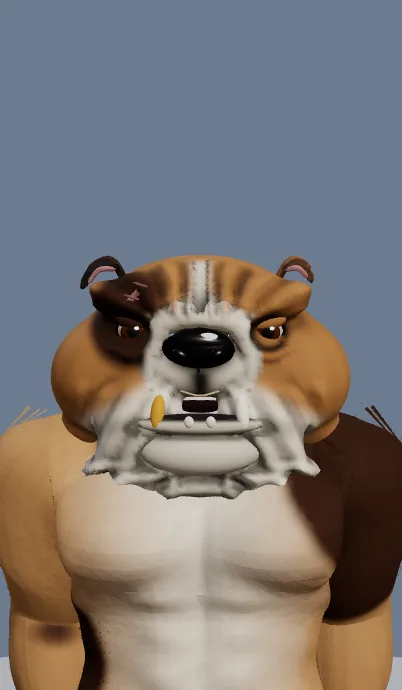
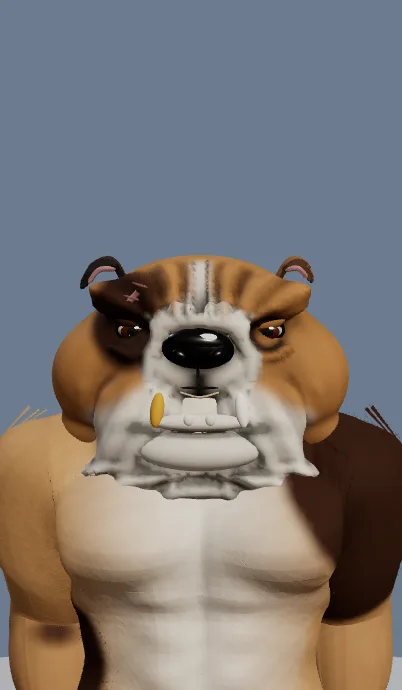
GOTR-0082: Brick v3 head final round (lower face, cheeks), v3 sheets (heads vs lion, gym, fight, motion); GOTR-0083: gym fight hides the club stands, Bruno walks in to count, the story waits for the raised arm; oldtown goal strip fix
Claude-Session: https://claude.ai/code/session_012XYxhJ7jTb1Ye5xdCZM7vq

diff --git a/adventure/story/story-cast.js b/adventure/story/story-cast.js
@@ -412,7 +412,7 @@
     const x = Math.abs(px);
     let d = E(x, y, z, 0, .185, -.03, .215, .12, .2);                   // wide flat skull
     d = SM(d, E(x, y, z, 0, .03, -.09, .24, .17, .17), .06);            // back of the head into the neck
-    d = SM(d, E(x, y, z, .18, .04, .03, .15, .14, .16), .05);           // cheeks and jowls: the biggest mass
+    d = SM(d, E(x, y, z, .18, .04, .005, .15, .14, .155), .05);         // cheeks and jowls: the biggest mass
     d = SM(d, E(x, y, z, 0, .086, .15, .17, .08, .085), .035);          // very short muzzle, almost as wide as the skull
     d = SM(d, E(x, y, z, .07, .2, .168, .065, .036, .05), .022);        // heavy brow: low at the inside (a permanent frown) ...
     d = SM(d, E(x, y, z, .155, .222, .12, .075, .042, .056), .028);     // ... higher at the outside
@@ -433,7 +433,7 @@
       const wf = smooth((y - .19) / .03) * smooth(z / .08) * (1 - smooth((y - .3) / .025)) * smooth((x - .012) / .012);
       if (wf > 0) { const a = Math.atan2(x, y - .1); k += wf * .01 * fold(a * 3.4 + .3 * Math.sin(y * 28 + x * 9)); }
       const wl = smooth((.06 - y) / .04) * smooth((z - .1) / .06) * smooth((x - .035) / .03) * (1 - smooth((x - .24) / .04));
-      if (wl > 0) k += wl * .01 * fold((x * .9 + y * .45) / .055);
+      if (wl > 0) k += wl * .007 * fold((x * .9 + y * .45) / .055);
       const wd = smooth((-.1 - y) / .04) * smooth((z + .02) / .06);
       if (wd > 0) k += wd * .011 * fold((y + 1.2 * x * x) / .05);
       return k;
@@ -446,10 +446,9 @@
       d -= skin(x, y, z);
       d = SS(d, E(x, y, z, 0, .25, .21, .014, .065, .06), .012);        // the furrow down the forehead
       d = SS(d, E(x, y, z, .145, .155, .215, .044, .037, .05), .012);   // deep eye sockets under the brow
-      d = SS(d, E(x, y, z, 0, .04, .26, .02, .035, .04), .01);          // the cleft under the nose between the flews
       return d;
     };
-    const jaw = (px, y, z) => { const x = Math.abs(px); let d = E(x, y, z, 0, -.08, .125, .17, .056, .14); d = SM(d, E(x, y, z, 0, -.1, .255, .115, .042, .048), .03); return SM(d, E(x, y, z, 0, -.034, .265, .13, .022, .03), .011); }; // undershot: a broad square chin and the lower lip jut out past the nose
+    const jaw = (px, y, z) => { const x = Math.abs(px); let d = E(x, y, z, 0, -.08, .125, .17, .056, .14); d = SM(d, E(x, y, z, 0, -.098, .252, .115, .036, .046), .03); return SM(d, E(x, y, z, 0, -.032, .265, .105, .018, .028), .011); }; // undershot: a broad square chin and the lower lip jut out past the nose
     return (mugFields = { base: mugBase, upper, jaw, rope, all: (x, y, z) => Math.min(upper(x, y, z), jaw(x, y, z)) });
   }
   /** Skin weights for the face dynamics: x = jowls, flews, dewlap (swing), y = brow (frown / lift), z = cheeks (ripple on impact). */
@@ -484,7 +483,7 @@
         for (const [sx, sy] of [[.06, .03], [.09, .012], [.1, .04]]) c.lerp(mask, .6 * smooth((.007 - Math.hypot(x - sx, y - sy)) / .003) * front); // whisker spots
       };
       const up = flexWeights(tint(surface(F.upper, [-.37, -.29, -.36], [.37, .37, .34], .0125), F.all, coat, .024, .38));
-      const jw = flexWeights(tint(surface(F.jaw, [-.18, -.16, -.03], [.18, .0, .32], .011), F.all, (px, y, z, nx, ny, nz, c) => { const x = Math.abs(px); c.copy(white).lerp(lip, clamp(smooth((y + .03) / .01) * smooth((z - .22) / .03))).lerp(pink, smooth((ny - .55) / .2) * (1 - smooth((z - .22) / .03))).lerp(mouth, .6 * smooth((ny - .7) / .2) * (1 - smooth((z - .2) / .05))).lerp(mask, .45 * smooth((-.12 - y) / .03) * smooth((z - .15) / .05) * bell(x, 0, .12)); }, .018, .5), true);
+      const jw = flexWeights(tint(surface(F.jaw, [-.18, -.16, -.03], [.18, .0, .32], .011), F.all, (px, y, z, nx, ny, nz, c) => { const x = Math.abs(px); c.copy(white).lerp(lip, clamp(.85 * smooth((y + .016) / .006) * smooth((z - .24) / .02))).lerp(pink, smooth((ny - .55) / .2) * (1 - smooth((z - .22) / .03))).lerp(mouth, .6 * smooth((ny - .7) / .2) * (1 - smooth((z - .2) / .05))).lerp(mask, .45 * smooth((-.12 - y) / .03) * smooth((z - .15) / .05) * bell(x, 0, .12)); }, .018, .72), true);
       for (const k of [up, jw]) crease(k, F.all, .007, 75, .55);
       mugGeo = { up, jw };
     }
@@ -495,13 +494,13 @@
     const mug = new THREE.Group(); mug.name = 'Brick: bulldog head'; mug.userData.mane = true; mug.scale.setScalar(S9); mug.position.set(0, -.032, .014); // sits low and forward
     const skull = new THREE.Mesh(mugGeo.up, mat); skull.name = 'Brick: skull, muzzle, flews'; skull.castShadow = true; mug.add(skull);
     // the jaw swings on a hinge behind the cheeks
-    const hinge = new THREE.Group(); hinge.position.set(0, .004, .0); hinge.rotation.x = .02; mug.add(hinge);
+    const hinge = new THREE.Group(); hinge.position.set(0, .004, .0); mug.add(hinge);
     const jaw = new THREE.Mesh(mugGeo.jw, mat); jaw.position.set(0, .01, 0); jaw.name = 'Brick: jaw'; jaw.castShadow = true; hinge.add(jaw);
     const T = new Parts(), J = p => p.clone().add(V(0, .01, 0));
     for (const sd of [-1, 1]) { T.sph(J(V(sd * .086, -.006, .27)), V(.014, .036, .014), sd > 0 ? '#e0a83a' : '#fbf7ee', [-.3, 0, sd * .12]); T.sph(J(V(sd * .022, -.022, .292)), V(.01, .012, .007), '#f3ecde'); } // two lower canines (one gold) and the front teeth
     T.sph(J(V(0, -.036, .17)), V(.07, .013, .085), '#c06a70'); hinge.add(T.mesh('Brick: teeth, tongue'));
     const P = new Parts();
-    P.sph(V(0, .0, .12), V(.13, .032, .1), '#2a1214'); // the dark of the mouth behind the lips
+    P.sph(V(0, -.004, .1), V(.12, .024, .09), '#2a1214'); // the dark of the mouth behind the lips
     // small rose ears high on the corners of the skull, folded back and a little down, with a darker edge; the left one is torn
     for (const sd of [-1, 1]) { const ec = sd > 0 ? BRICK.patch : '#a87447', len = sd > 0 ? .85 : .55, e0 = V(sd * .17, .245, -.06);
       const pts = [e0, V(sd * .2, .285, -.085), V(sd * (.212 + .04 * len), .285 - .018 * len, -.108), V(sd * (.222 + .058 * len), .282 - .062 * len, -.1)];
@@ -528,7 +527,7 @@
       mk(rig.castMats.glint, V(ex - sd * .003 - r * .26, ey + r * .22, ez + r * .7), V(r * .17, r * .15, r * .05)); mk(rig.castMats.glint, V(ex - sd * .003 + r * .2, ey - r * .26, ez + r * .66), V(r * .07, r * .06, r * .03));
       const ul = new THREE.Mesh(proto('sph'), lid); ul.position.set(ex, ey + r * .58, ez + r * .06); ul.scale.set(r * 1.18, r * .52, r * .68); ul.rotation.z = sd * .3; ul.name = 'Brick: upper lid'; mug.add(ul); lids.push({ m: ul, y: ul.position.y }); // heavy upper lid (in the head group, so face acting leaves it alone)
     }
-    rig.castTalk = { hinge, rest: .02, amount: 0 };
+    rig.castTalk = { hinge, rest: 0, amount: 0 };
     rig.castFace = { U, mug, lids, spring: null, time: null, brow: -.4 };
   }
   /** Face dynamics, every rig update (cheap): jowls on a spring, brow frown / lift, impact ripple, jaw on effort. */

diff --git a/qa/gotr-0078/slice1/tools/gymfight.js b/qa/gotr-0078/slice1/tools/gymfight.js
@@ -1,0 +1,32 @@
+// GOTR-0083: the first fight vs Brick through the game's own flow (fresh profile, AdventureOldTown.launch 'first_brick'),
+// on the gym floor with Bruno as referee. Shots: guard, Brick punching, a knockdown with Bruno counting, the result.
+// Env: TAG (file prefix), SPEED (game speed while waiting, default 6). The intro is skipped with the game's own skip.
+module.exports = async (p, shot, u) => {
+  const tag = process.env.TAG || 'gym', speed = +(process.env.SPEED || 6), wait = (f, a, t = 280000) => p.waitForFunction(f, a, { timeout: t });
+  await p.evaluate(() => { localStorage.clear(); localStorage.setItem('gotr.adv.nointro', '1'); document.querySelectorAll('dialog[open]').forEach(d => d.close()); app.engine.career.store.create('QA Gym'); });
+  await p.reload({ timeout: 300000 }); await wait(() => window.ringfighterGame && app.engine.coach?.anatomy && window.AdventureOldTown && window.StoryCast && window.StoryGymFight);
+  await p.evaluate(() => { setInterval(() => document.querySelectorAll('dialog[open]:not(.dream-scene):not(.story-scene)').forEach(d => d.close()), 400); const rg = window.ringfighterGame; window.__ctx = { store: rg.store, startTraining: rg.startTraining, startFight: rg.startFight, change: a => { const r = rg.store.gameAction(a); if (r.ok) rg.apply?.(); return r.ok; } }; });
+  const frames = async n => { const n0 = await p.evaluate(() => app.engine.renderer.info.render.frame); await wait(a => app.engine.renderer.info.render.frame >= a[0] + a[1], [n0, n]); };
+  const info = () => p.evaluate(() => { const v = app.engine.arena.fightView, m = v?.match, b = v?.coaches?.lion, k = v?.coaches?.rabbit; const xz = c => c ? [+c.root.position.x.toFixed(2), +c.root.position.z.toFixed(2)] : null;
+    return { phase: m?.phase, time: +(m?.time || 0).toFixed(1), result: m?.result ? { winner: m.result.winner, method: m.result.method } : null, opponent: k?.character, gym: !!v?.gymFight, set: !!v?.gymFight?.set, ref: v?.referee?.isBruno ? 'bruno' : 'rhino', ring: v?.ring?.visible, crowd: v?.audience?.root?.visible, stands: app.engine.world?.arena?.visible, fighter: xz(b), brick: xz(k), bruno: v?.referee?.root ? xz({ root: v.referee.root }) : null }; });
+  await p.evaluate(() => { AdventureOldTown.launch(window.__ctx, 'first_brick'); });
+  await p.waitForTimeout(1500); await p.evaluate(() => { const b = document.querySelector('#sfBeat .sf-beat-main'); if (b) b.click(); });
+  await wait(() => app.engine.targetMode === 'fight' && app.engine.arena?.fightView?.match);
+  console.log('start', JSON.stringify(await info()));
+  await p.evaluate(s => { app.engine.cameraDirector?.skipIntro?.(); app.engine.speed = s; }, speed);
+  await wait(() => app.engine.arena.fightView.match.phase === 'round' && app.engine.arena.fightView.gymFight?.set);
+  await p.evaluate(() => { app.engine.speed = 1; }); await frames(3); console.log('guard', JSON.stringify(await info())); await shot(`${tag}-1-guard-${u.w}`);
+  await p.evaluate(s => { app.engine.speed = s; }, speed);
+  await wait(() => { const v = app.engine.arena.fightView, s = v.specs?.rabbit; return s?.attack && s.phase > .3 && s.phase < .6; }, null, 240000).catch(() => console.log('no Brick punch seen'));
+  await p.evaluate(() => { app.engine.speed = 1; }); await frames(2); console.log('punch', JSON.stringify(await info())); await shot(`${tag}-2-punch-${u.w}`);
+  // a knockdown of the Fighter: the match's own path (pendingDown -> count), Bruno counts over him
+  await p.evaluate(s => { const m = app.engine.arena.fightView.match, f = m.fighters.lion; f.stun = 30; f.pendingDown = true; app.engine.speed = s; }, speed);
+  await wait(() => app.engine.arena.fightView.match.phase === 'count'); await p.evaluate(() => { app.engine.speed = 1; });
+  await wait(() => app.engine.arena.fightView.match.phaseTime > 1.6, null, 200000).catch(() => {}); await frames(2);
+  console.log('count', JSON.stringify(await info())); await shot(`${tag}-3-count-${u.w}`);
+  // the stoppage: condition too low to go on after the count -> TKO for Brick; Bruno raises the winner's arm
+  await p.evaluate(s => { const m = app.engine.arena.fightView.match; m.fighters.lion.condition = 4; app.engine.speed = s; }, speed);
+  await p.waitForFunction(() => { const m = app.engine.arena.fightView?.match; if (m?.phase === 'ceremony') { app.engine.speed = 50; return true; } }, null, { timeout: 280000, polling: 50 }).catch(() => console.log('no ceremony'));
+  await p.waitForFunction(() => { const m = app.engine.arena.fightView?.match; if (!m || m.phaseTime > 2) { app.engine.speed = 0; return true; } }, null, { timeout: 60000, polling: 30 }).catch(() => {});
+  console.log('result', JSON.stringify(await info())); await shot(`${tag}-4-result-${u.w}`);
+};

diff --git a/adventure/story/gym-fight.js b/adventure/story/gym-fight.js
@@ -17,7 +17,7 @@
     view.gymFight = st;
     rhino.root.visible = false;
     bruno.root.parent?.remove(bruno.root); bruno.root.scale.set(1, 1, 1); bruno.root.visible = true; view.cast.add(bruno.root); Pose.reset(bruno); // scale 1 inside the mirrored cast, like the fighters
-    const hide = () => { if (view.ring) view.ring.visible = false; if (view.audience?.root) view.audience.root.visible = false; };
+    const hide = () => { if (view.ring) view.ring.visible = false; if (view.audience?.root) view.audience.root.visible = false; if (e.world?.arena) e.world.arena.visible = false; }; // the club arena's stands and seats too
     hide();
     const p = V();
     view.referee = {
@@ -28,6 +28,19 @@
         bruno.root.updateMatrixWorld(true);
         const state = { t: time, dt, dist: 0, arms: { L: 'hips', R: 'hips' }, look: null };
         if (o.lookAt) { p.copy(o.lookAt); bruno.root.worldToLocal(p); state.look = { yaw: Math.atan2(p.x, p.z), pitch: Math.atan2(p.y - 1.9, Math.hypot(p.x, p.z)) }; }
+        // a knockdown: Bruno steps in beside the fallen fighter, faces him, leans over and chops the count down once a second
+        const m = view.match, down = m?.phase === 'count' ? view.coaches?.[m.downActor] : null, root = bruno.root;
+        if (!st.home) st.home = root.position.clone();
+        if (down) {
+          const d = down.root.position, other = view.coaches[m.downActor === 'lion' ? 'rabbit' : 'lion'].root.position, away = V(d.x - other.x, 0, d.z - other.z); if (away.lengthSq() < 1e-4) away.set(1, 0, 0); away.normalize();
+          const cam = view.cast.worldToLocal(e.camera.position.clone()), side = V(-away.z, 0, away.x); if (side.dot(V(cam.x - d.x, 0, cam.z - d.z)) > 0) side.negate(); // beyond the fallen fighter as the camera sees him, so he never hides him
+          const goal = V(d.x, 0, d.z).addScaledVector(side, .95).addScaledVector(away, .25);
+          if (!st.walk) st.walk = root.position.clone(); st.walk.lerp(goal, 1 - Math.exp(-4 * dt));
+          root.position.copy(st.walk); root.rotation.y = Math.atan2(d.x - st.walk.x, d.z - st.walk.z);
+          const beat = time % 1; Pose.civil(bruno, { t: time, dt, dist: 0, arms: { L: 'hips', R: 'count' }, reach: { R: [.3, 1.6 - .24 * Math.min(1, beat * 4) * (1 - Math.min(1, Math.max(0, beat - .25) * 3)), .38] }, look: { yaw: 0, pitch: -.45 }, lean: .2 });
+          return;
+        }
+        if (st.walk) { const k = 1 - Math.exp(-3 * dt); st.walk.lerp(root.position, k); if (st.walk.distanceTo(root.position) < .02) st.walk = null; else root.position.copy(st.walk); } // back to his place
         if (grip && grip.isVector3) {
           p.copy(grip); bruno.root.worldToLocal(p);
           if (Math.hypot(p.x, p.z) < .6 && p.y > 1.5) { const beat = time % 1; state.arms = { L: 'hips', R: 'count' }; state.reach = { R: [.3, 1.62 - .22 * Math.min(1, beat * 4) * (1 - Math.min(1, Math.max(0, beat - .25) * 3)), .34] }; state.look = { yaw: 0, pitch: -.35 }; state.lean = .12; } // the count: the arm chops down once a second
@@ -49,7 +62,7 @@
     }).catch(x => console.warn('gym fight', x));
     const dispose = view.dispose;
     view.dispose = function (...args) {
-      st.gone = true; view.referee = rhino; rhino.root.visible = true;
+      st.gone = true; view.referee = rhino; rhino.root.visible = true; if (e.world?.arena) e.world.arena.visible = e.world.mode === 'fight';
       bruno.root.parent?.remove(bruno.root); bruno.root.scale.set(-1, 1, 1); Pose.reset(bruno);
       for (const o of st.hidden) o.visible = true;
       try { st.set?.dispose(); } catch (x) { console.warn('gym fight', x); }

diff --git a/adventure/oldtown.js b/adventure/oldtown.js
@@ -117,7 +117,7 @@
     root.append(txt, bar, quit); (window.app?.engine?.stage||document.body).append(root); r.ui = { root, txt, fillBar };
   }
   function paintStrip() {
-    const r = run; if (!r?.ui) return;
+    const r = run; if (!r?.ui?.fillBar) return; // story fights and boss strips have no goal bar (they paint their own text)
     const lower = A().metrics[r.mission.metric]?.lower, stars = lower && !r.ended ? 0 : A().starsFor(r.id, r.value), key = r.id + '|' + r.value + '|' + lang();
     if (r.paintKey === key) return; r.paintKey = key;
     const shown = A().metrics[r.mission.metric].lower ? r.value : Math.min(r.value, r.target);
@@ -161,7 +161,7 @@
   function fightDone(view) {
     const r = run; if (r.fightDone) return; r.fightDone = true;
     if (r.def.kind === 'boss') { setTimeout(() => bossDone(view), 1500); return; }
-    if (r.def.kind === 'story_fight') { setTimeout(() => storyFightDone(view), 1500); return; }
+    if (r.def.kind === 'story_fight') { const t0 = performance.now(), wait = () => { const m = view.match; if (!m || m.phase !== 'ceremony' || m.phaseTime >= 3.2 || performance.now() - t0 > 7000) storyFightDone(view); else setTimeout(wait, 150); }; setTimeout(wait, 1500); return; } // the referee raises the winner's arm before the story goes on (GOTR-0083)
     const entry = view.careerEntry, m = view.match, totals = m.result.totals || m.totals, sp = entry.species, me = totals[sp], opp = totals[sp === 'lion' ? 'rabbit' : 'lion'], won = m.result.winner === sp, d = r.def;
     if (d.chain) { // Crowd circle: the next challenger steps in after every win; the first loss ends the run
       if (won) r.value = (r.wins = (r.wins || 0) + 1);
